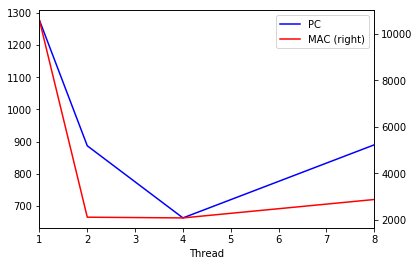
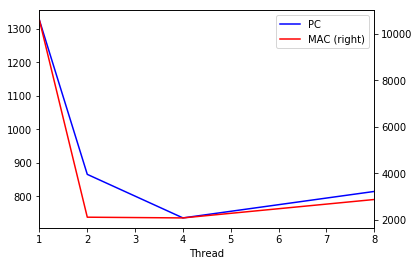
Update test result
Fix concurrent pool resolve
Update test results

diff --git a/ParBST/results/Test Results - BinaryTreePerformanceTest_PC.html b/ParBST/results/Test Results - BinaryTreePerformanceTest_PC.html
@@ -572,7 +572,7 @@ jQuery.cookie = function(name, value, options) {
 <body>
 <div id="container">
 <div id="header">
-<div class="time" xmlns="">60.51 s</div>
+<div class="time" xmlns="">1 m 22 s</div>
 <h1>BinaryTreePerformanceTest: <strong><span class="total" xmlns="http://www.w3.org/1999/xhtml">12 total, </span><span class="passed">12 passed</span></strong>
 </h1>
 <div id="treecontrol">
@@ -588,40 +588,40 @@ jQuery.cookie = function(name, value, options) {
 </div>
 </div>
 <div id="content">
-<ul id="tree">&amp;quot;C:\Program Files\Java\jdk1.8.0_144\bin\java&amp;quot; -ea -Didea.test.cyclic.buffer.size=1048576 &amp;quot;-javaagent:C:\Program Files\JetBrains\IntelliJ IDEA 2017.2.4\lib\idea_rt.jar=10359:C:\Program Files\JetBrains\IntelliJ IDEA 2017.2.4\bin&amp;quot; -Dfile.encoding=UTF-8 -classpath &amp;quot;C:\Program Files\JetBrains\IntelliJ IDEA 2017.2.4\lib\idea_rt.jar;C:\Program Files\JetBrains\IntelliJ IDEA 2017.2.4\plugins\junit\lib\junit-rt.jar;C:\Program Files\JetBrains\IntelliJ IDEA 2017.2.4\plugins\junit\lib\junit5-rt.jar;C:\Program Files\Java\jdk1.8.0_144\jre\lib\charsets.jar;C:\Program Files\Java\jdk1.8.0_144\jre\lib\deploy.jar;C:\Program Files\Java\jdk1.8.0_144\jre\lib\ext\access-bridge-64.jar;C:\Program Files\Java\jdk1.8.0_144\jre\lib\ext\cldrdata.jar;C:\Program Files\Java\jdk1.8.0_144\jre\lib\ext\dnsns.jar;C:\Program Files\Java\jdk1.8.0_144\jre\lib\ext\jaccess.jar;C:\Program Files\Java\jdk1.8.0_144\jre\lib\ext\jfxrt.jar;C:\Program Files\Java\jdk1.8.0_144\jre\lib\ext\localedata.jar;C:\Program Files\Java\jdk1.8.0_144\jre\lib\ext\nashorn.jar;C:\Program Files\Java\jdk1.8.0_144\jre\lib\ext\sunec.jar;C:\Program Files\Java\jdk1.8.0_144\jre\lib\ext\sunjce_provider.jar;C:\Program Files\Java\jdk1.8.0_144\jre\lib\ext\sunmscapi.jar;C:\Program Files\Java\jdk1.8.0_144\jre\lib\ext\sunpkcs11.jar;C:\Program Files\Java\jdk1.8.0_144\jre\lib\ext\zipfs.jar;C:\Program Files\Java\jdk1.8.0_144\jre\lib\javaws.jar;C:\Program Files\Java\jdk1.8.0_144\jre\lib\jce.jar;C:\Program Files\Java\jdk1.8.0_144\jre\lib\jfr.jar;C:\Program Files\Java\jdk1.8.0_144\jre\lib\jfxswt.jar;C:\Program Files\Java\jdk1.8.0_144\jre\lib\jsse.jar;C:\Program Files\Java\jdk1.8.0_144\jre\lib\management-agent.jar;C:\Program Files\Java\jdk1.8.0_144\jre\lib\plugin.jar;C:\Program Files\Java\jdk1.8.0_144\jre\lib\resources.jar;C:\Program Files\Java\jdk1.8.0_144\jre\lib\rt.jar;C:\Users\maybe\Documents\Workspace\CSE4006\ParBST\out\test\ParBST;C:\Users\maybe\Documents\Workspace\CSE4006\ParBST\out\production\ParBST;C:\Program Files\JetBrains\IntelliJ IDEA 2017.2.4\lib\junit-4.12.jar;C:\Program Files\JetBrains\IntelliJ IDEA 2017.2.4\lib\hamcrest-core-1.3.jar&amp;quot; com.intellij.rt.execution.junit.JUnitStarter -ideVersion5 -junit4 report.BinaryTreePerformanceTest
+<ul id="tree">&amp;quot;C:\Program Files\Java\jdk1.8.0_151\bin\java&amp;quot; -ea -Didea.test.cyclic.buffer.size=1048576 &amp;quot;-javaagent:C:\Program Files\JetBrains\IntelliJ IDEA 2017.2.4\lib\idea_rt.jar=23079:C:\Program Files\JetBrains\IntelliJ IDEA 2017.2.4\bin&amp;quot; -Dfile.encoding=UTF-8 -classpath &amp;quot;C:\Program Files\JetBrains\IntelliJ IDEA 2017.2.4\lib\idea_rt.jar;C:\Program Files\JetBrains\IntelliJ IDEA 2017.2.4\plugins\junit\lib\junit-rt.jar;C:\Program Files\JetBrains\IntelliJ IDEA 2017.2.4\plugins\junit\lib\junit5-rt.jar;C:\Program Files\Java\jdk1.8.0_151\jre\lib\charsets.jar;C:\Program Files\Java\jdk1.8.0_151\jre\lib\deploy.jar;C:\Program Files\Java\jdk1.8.0_151\jre\lib\ext\access-bridge-64.jar;C:\Program Files\Java\jdk1.8.0_151\jre\lib\ext\cldrdata.jar;C:\Program Files\Java\jdk1.8.0_151\jre\lib\ext\dnsns.jar;C:\Program Files\Java\jdk1.8.0_151\jre\lib\ext\jaccess.jar;C:\Program Files\Java\jdk1.8.0_151\jre\lib\ext\jfxrt.jar;C:\Program Files\Java\jdk1.8.0_151\jre\lib\ext\localedata.jar;C:\Program Files\Java\jdk1.8.0_151\jre\lib\ext\nashorn.jar;C:\Program Files\Java\jdk1.8.0_151\jre\lib\ext\sunec.jar;C:\Program Files\Java\jdk1.8.0_151\jre\lib\ext\sunjce_provider.jar;C:\Program Files\Java\jdk1.8.0_151\jre\lib\ext\sunmscapi.jar;C:\Program Files\Java\jdk1.8.0_151\jre\lib\ext\sunpkcs11.jar;C:\Program Files\Java\jdk1.8.0_151\jre\lib\ext\zipfs.jar;C:\Program Files\Java\jdk1.8.0_151\jre\lib\javaws.jar;C:\Program Files\Java\jdk1.8.0_151\jre\lib\jce.jar;C:\Program Files\Java\jdk1.8.0_151\jre\lib\jfr.jar;C:\Program Files\Java\jdk1.8.0_151\jre\lib\jfxswt.jar;C:\Program Files\Java\jdk1.8.0_151\jre\lib\jsse.jar;C:\Program Files\Java\jdk1.8.0_151\jre\lib\management-agent.jar;C:\Program Files\Java\jdk1.8.0_151\jre\lib\plugin.jar;C:\Program Files\Java\jdk1.8.0_151\jre\lib\resources.jar;C:\Program Files\Java\jdk1.8.0_151\jre\lib\rt.jar;C:\Users\maybe\Documents\Workspace\CSE4006\ParBST\out\test\ParBST;C:\Users\maybe\Documents\Workspace\CSE4006\ParBST\out\production\ParBST;C:\Program Files\JetBrains\IntelliJ IDEA 2017.2.4\lib\junit-4.12.jar;C:\Program Files\JetBrains\IntelliJ IDEA 2017.2.4\lib\hamcrest-core-1.3.jar&amp;quot; com.intellij.rt.execution.junit.JUnitStarter -ideVersion5 -junit4 report.BinaryTreePerformanceTest
 Process finished with exit code 0
 <li xmlns="" class="level top open">
 <span><em class="time">
-<div class="time">22.54 s</div>
+<div class="time">31.31 s</div>
 </em>[0]</span>
 <ul>
 <li class="level test">
 <span><em class="time">
-<div class="time">1300 ms</div>
+<div class="time">1.33 s</div>
 </em><em class="status">passed</em>testA[0]</span>
 <ul>
 <li class="text">
-<span class="stdout">Inserting 1000000 numbers takes 1277ms<br/></span>
+<span class="stdout">Inserting 1000000 numbers takes 1326ms<br/></span>
 </li>
 </ul>
 </li>
 <li class="level test">
 <span><em class="time">
-<div class="time">3927 ms</div>
+<div class="time">4.92 s</div>
 </em><em class="status">passed</em>testB[0]</span>
 <ul>
 <li class="text">
-<span class="stdout">1213<br/>899<br/>824<br/></span>
+<span class="stdout">Inserting 1000000 numbers takes 1395ms<br/>Insert and Search ratio 1:1, 1000000 numbers takes 1185ms<br/>Insert and Search ratio 1:4, 1000000 numbers takes 1183ms<br/>Insert and Search ratio 1:9, 1000000 numbers takes 1160ms<br/></span>
 </li>
 </ul>
 </li>
 <li class="level test">
 <span><em class="time">
-<div class="time">17.30 s</div>
+<div class="time">25.06 s</div>
 </em><em class="status">passed</em>testC[0]</span>
 <ul>
 <li class="text">
-<span class="stdout">4190<br/>4241<br/>3911<br/></span>
+<span class="stdout">Inserting 1000000 numbers takes 6259ms<br/>Insert and Search RWTree ratio 1:1, 1000000 numbers takes 6799ms<br/>Insert and Search RWTree ratio 1:4, 1000000 numbers takes 6027ms<br/>Insert and Search RWTree ratio 1:9, 1000000 numbers takes 5969ms<br/></span>
 </li>
 </ul>
 </li>
@@ -629,36 +629,36 @@ Process finished with exit code 0
 </li>
 <li class="level top open">
 <span><em class="time">
-<div class="time">14.94 s</div>
+<div class="time">20.83 s</div>
 </em>[1]</span>
 <ul>
 <li class="level test">
 <span><em class="time">
-<div class="time">888 ms</div>
+<div class="time">867 ms</div>
 </em><em class="status">passed</em>testA[1]</span>
 <ul>
 <li class="text">
-<span class="stdout">Inserting 1000000 numbers takes 887ms<br/></span>
+<span class="stdout">Inserting 1000000 numbers takes 866ms<br/></span>
 </li>
 </ul>
 </li>
 <li class="level test">
 <span><em class="time">
-<div class="time">2457 ms</div>
+<div class="time">3.64 s</div>
 </em><em class="status">passed</em>testB[1]</span>
 <ul>
 <li class="text">
-<span class="stdout">653<br/>554<br/>581<br/></span>
+<span class="stdout">Inserting 1000000 numbers takes 904ms<br/>Insert and Search ratio 1:1, 1000000 numbers takes 907ms<br/>Insert and Search ratio 1:4, 1000000 numbers takes 915ms<br/>Insert and Search ratio 1:9, 1000000 numbers takes 911ms<br/></span>
 </li>
 </ul>
 </li>
 <li class="level test">
 <span><em class="time">
-<div class="time">11.50 s</div>
+<div class="time">16.33 s</div>
 </em><em class="status">passed</em>testC[1]</span>
 <ul>
 <li class="text">
-<span class="stdout">2580<br/>2837<br/>2709<br/></span>
+<span class="stdout">Inserting 1000000 numbers takes 3828ms<br/>Insert and Search RWTree ratio 1:1, 1000000 numbers takes 4778ms<br/>Insert and Search RWTree ratio 1:4, 1000000 numbers takes 3815ms<br/>Insert and Search RWTree ratio 1:9, 1000000 numbers takes 3906ms<br/></span>
 </li>
 </ul>
 </li>
@@ -666,36 +666,36 @@ Process finished with exit code 0
 </li>
 <li class="level top open">
 <span><em class="time">
-<div class="time">11.50 s</div>
+<div class="time">13.11 s</div>
 </em>[2]</span>
 <ul>
 <li class="level test">
 <span><em class="time">
-<div class="time">663 ms</div>
+<div class="time">737 ms</div>
 </em><em class="status">passed</em>testA[2]</span>
 <ul>
 <li class="text">
-<span class="stdout">Inserting 1000000 numbers takes 663ms<br/></span>
+<span class="stdout">Inserting 1000000 numbers takes 736ms<br/></span>
 </li>
 </ul>
 </li>
 <li class="level test">
 <span><em class="time">
-<div class="time">3020 ms</div>
+<div class="time">2.87 s</div>
 </em><em class="status">passed</em>testB[2]</span>
 <ul>
 <li class="text">
-<span class="stdout">755<br/>733<br/>747<br/></span>
+<span class="stdout">Inserting 1000000 numbers takes 756ms<br/>Insert and Search ratio 1:1, 1000000 numbers takes 708ms<br/>Insert and Search ratio 1:4, 1000000 numbers takes 703ms<br/>Insert and Search ratio 1:9, 1000000 numbers takes 701ms<br/></span>
 </li>
 </ul>
 </li>
 <li class="level test">
 <span><em class="time">
-<div class="time">7800 ms</div>
+<div class="time">9.50 s</div>
 </em><em class="status">passed</em>testC[2]</span>
 <ul>
 <li class="text">
-<span class="stdout">2124<br/>1967<br/>1781<br/></span>
+<span class="stdout">Inserting 1000000 numbers takes 2289ms<br/>Insert and Search RWTree ratio 1:1, 1000000 numbers takes 2334ms<br/>Insert and Search RWTree ratio 1:4, 1000000 numbers takes 2583ms<br/>Insert and Search RWTree ratio 1:9, 1000000 numbers takes 2296ms<br/></span>
 </li>
 </ul>
 </li>
@@ -703,36 +703,36 @@ Process finished with exit code 0
 </li>
 <li class="level top open">
 <span><em class="time">
-<div class="time">11.60 s</div>
+<div class="time">16.60 s</div>
 </em>[3]</span>
 <ul>
 <li class="level test">
 <span><em class="time">
-<div class="time">1280 ms</div>
+<div class="time">1.35 s</div>
 </em><em class="status">passed</em>testA[3]</span>
 <ul>
 <li class="text">
-<span class="stdout">Inserting 1000000 numbers takes 1274s<br/></span>
+<span class="stdout">Inserting 1000000 numbers takes 815ms<br/></span>
 </li>
 </ul>
 </li>
 <li class="level test">
 <span><em class="time">
-<div class="time">5080 ms</div>
+<div class="time">5.44 s</div>
 </em><em class="status">passed</em>testB[3]</span>
 <ul>
 <li class="text">
-<span class="stdout">1251<br/>1133<br/>1312<br/></span>
+<span class="stdout">Inserting 1000000 numbers takes 1422ms<br/>Insert and Search ratio 1:1, 1000000 numbers takes 813ms<br/>Insert and Search ratio 1:4, 1000000 numbers takes 811ms<br/>Insert and Search ratio 1:9, 1000000 numbers takes 801ms<br/></span>
 </li>
 </ul>
 </li>
 <li class="level test">
 <span><em class="time">
-<div class="time">5284 ms</div>
+<div class="time">9.81 s</div>
 </em><em class="status">passed</em>testC[3]</span>
 <ul>
 <li class="text">
-<span class="stdout">1260<br/>1361<br/>1283<br/></span>
+<span class="stdout">Inserting 1000000 numbers takes 2025ms<br/>Insert and Search RWTree ratio 1:1, 1000000 numbers takes 2297ms<br/>Insert and Search RWTree ratio 1:4, 1000000 numbers takes 2278ms<br/>Insert and Search RWTree ratio 1:9, 1000000 numbers takes 2249ms<br/></span>
 </li>
 </ul>
 </li>
@@ -742,7 +742,7 @@ Process finished with exit code 0
 </div>
 </div>
 <div id="footer">
-<p>Generated by IntelliJ IDEA on 17. 11. 28 오후 1:14</p>
+<p>Generated by IntelliJ IDEA on 17. 11. 29 오후 10:09</p>
 </div>
 </body>
 </html>

diff --git a/ParBST/test/report/BinaryTreePerformanceTest.java b/ParBST/test/report/BinaryTreePerformanceTest.java
@@ -4,6 +4,7 @@ import collections.concurrent.BinaryTree;
 import collections.concurrent.RWBinaryTree;
 import collections.interfaces.Tree;
 
+import concurrent.Pool;
 import org.junit.Before;
 import org.junit.BeforeClass;
 import org.junit.Test;
@@ -22,7 +23,7 @@ public class BinaryTreePerformanceTest {
 
     private int threadSize;
     private int[] searchRatio;
-    private static final int testSize = 100000;
+    private static final int testSize = 1000000;
     private static List<Integer> numbers;
 
     @BeforeClass
@@ -76,20 +77,18 @@ public class BinaryTreePerformanceTest {
             numbers.forEach((e) -> pool.push(() -> tree.insert(e)));
             pool.join();
         });
-
         System.out.println(String.format("Inserting %d numbers takes %dms", numbers.size(), insertTime));
 
-        long[] result = new long[this.searchRatio.length];
-        for (int i = 0; i < searchRatio.length; ++i) {
-            final int ratio = searchRatio[i];
-            result[i] = executeWithTime(() -> {
+        for (final int ratio : searchRatio) {
+            long time = executeWithTime(() -> {
+                pool = new Pool(threadSize);
                 numbers.forEach((e) -> {
                     if (assertRatio(1, ratio, e)) pool.push(() -> tree.insert(e));
                     else pool.push(() -> tree.search(e));
                 });
                 pool.join();
             });
-            System.out.println(result[i]);
+            System.out.println(String.format("Insert and Search ratio 1:%d, %d numbers takes %dms", ratio, numbers.size(), time));
         }
     }
 
@@ -99,18 +98,18 @@ public class BinaryTreePerformanceTest {
             numbers.forEach((e) -> pool.push(() -> rwTree.insert(e)));
             pool.join();
         });
+        System.out.println(String.format("Inserting %d numbers takes %dms", numbers.size(), insertTime));
 
-        long[] result = new long[this.searchRatio.length];
-        for (int i = 0; i < searchRatio.length; ++i) {
-            final int ratio = searchRatio[i];
-            result[i] = executeWithTime(() -> {
+        for (final int ratio : searchRatio) {
+            long time = executeWithTime(() -> {
+                pool = new Pool(threadSize);
                 numbers.forEach((e) -> {
                     if (assertRatio(1, ratio, e)) pool.push(() -> rwTree.insert(e));
                     else pool.push(() -> rwTree.search(e));
                 });
                 pool.join();
             });
-            System.out.println(result[i]);
+            System.out.println(String.format("Insert and Search RWTree ratio 1:%d, %d numbers takes %dms", ratio, numbers.size(), time));
         }
     }
 }

diff --git a/ParBST/src/ParBSTMain.java b/ParBST/src/ParBSTMain.java
@@ -28,8 +28,8 @@ public class ParBSTMain {
             System.out.println(String.format("Test Start with Thread %d", threadSize));
             try {
                 testA();
-                testB();
-                testC();
+                testB(threadSize);
+                testC(threadSize);
             } catch (Exception e) {
                 e.printStackTrace();
             }
@@ -56,7 +56,7 @@ public class ParBSTMain {
     }
 
 
-    static void testB() throws Exception {
+    static void testB(int threadSize) throws Exception {
         long insertTime = executeWithTime(() -> {
             numbers.forEach((e) -> pool.push(() -> tree.insert(e)));
             pool.join();
@@ -64,6 +64,7 @@ public class ParBSTMain {
         System.out.println(String.format("TestB: Insert and Search %d with ratio", numbers.size()));
         for (int ratio : searchRatio) {
             long time = executeWithTime(() -> {
+                pool = new concurrent.Pool(threadSize);
                 numbers.forEach((e) -> {
                     if (assertRatio(1, ratio, e)) pool.push(() -> tree.insert(e));
                     else pool.push(() -> tree.search(e));
@@ -74,7 +75,7 @@ public class ParBSTMain {
         }
     }
 
-    static void testC() throws Exception {
+    static void testC(int threadSize) throws Exception {
         long insertTime = executeWithTime(() -> {
             numbers.forEach((e) -> pool.push(() -> rwTree.insert(e)));
             pool.join();
@@ -82,6 +83,7 @@ public class ParBSTMain {
         System.out.println(String.format("TestC: Insert and Search RWLock %d with ratio", numbers.size()));
         for (int ratio : searchRatio) {
             long time = executeWithTime(() -> {
+                pool = new concurrent.Pool(threadSize);
                 numbers.forEach((e) -> {
                     if (assertRatio(1, ratio, e)) pool.push(() -> rwTree.insert(e));
                     else pool.push(() -> rwTree.search(e));
